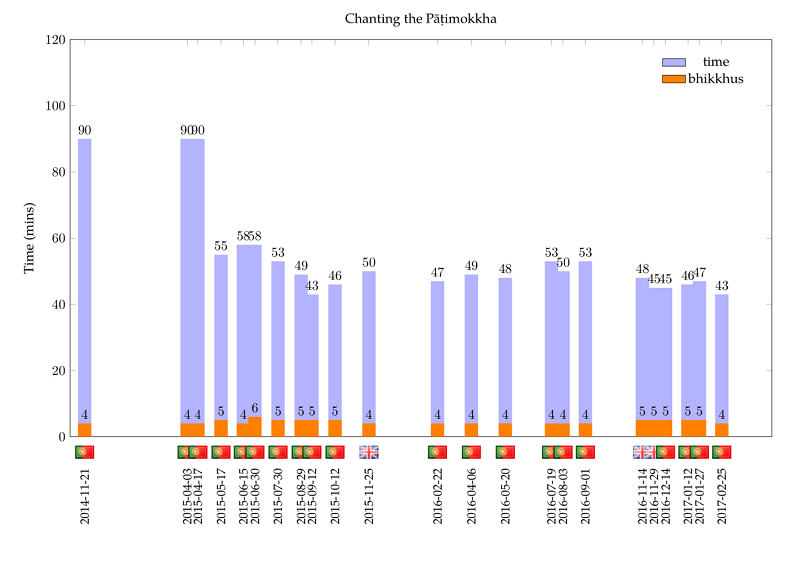
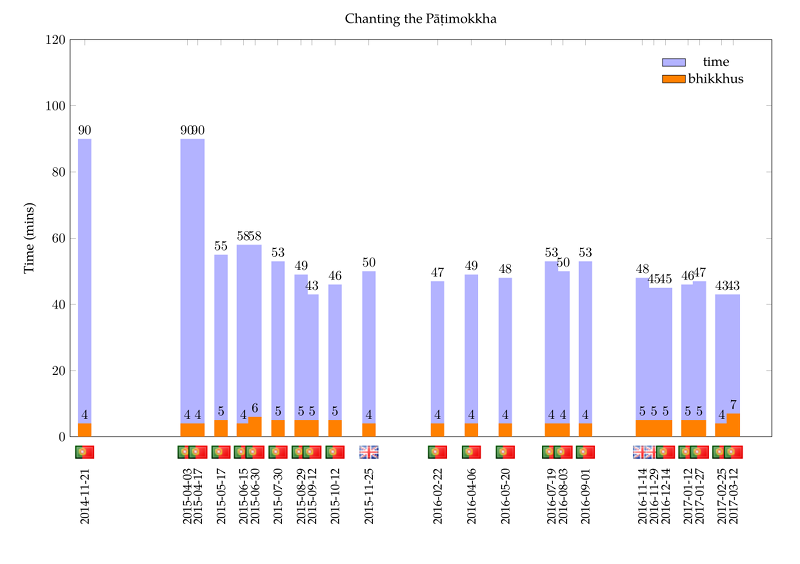
upd

Changed region(s): [[0.9062, 0.4823, 0.9375, 0.8138], [0.9062, 0.844, 0.9375, 0.9344]]

diff --git a/src/patimokkha-chanting-chart.tex b/src/patimokkha-chanting-chart.tex
@@ -106,6 +106,7 @@
   \node [anchor=south, yshift=-20pt] at (axis cs:2017-01-12,0) {\includegraphics[width=5mm]{pt}};
   \node [anchor=south, yshift=-20pt] at (axis cs:2017-01-27,0) {\includegraphics[width=5mm]{pt}};
   \node [anchor=south, yshift=-20pt] at (axis cs:2017-02-25,0) {\includegraphics[width=5mm]{pt}};
+  \node [anchor=south, yshift=-20pt] at (axis cs:2017-03-12,0) {\includegraphics[width=5mm]{pt}};
 
 \end{axis}
 \end{tikzpicture}
